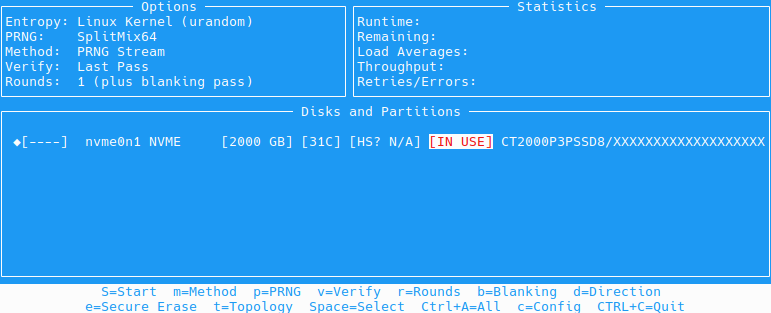
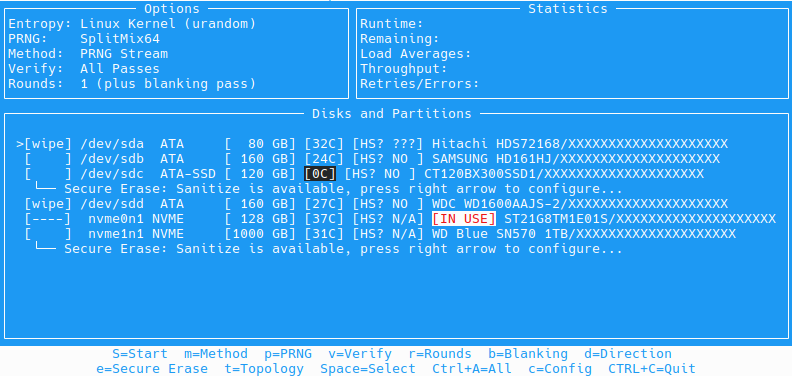
Further updates to drive selection page

Changed region(s): [[0.0, 0.345, 1.0, 1.0], [0.0, 0.0, 1.0, 0.3163]]

diff --git a/drive-selection.md b/drive-selection.md
@@ -19,10 +19,73 @@ Drives currently mounted by the operating system are flagged as <span style="bac
 
 ### 2. Drive Selection Panel Descriptions
 
-The drive selection screen consists of 4 panels and a title bar.
-* **Top Left Panel `Options`** This panel contains the currently selected settings for `entropy` type, `PRNG` type (psuedo random number generator), `Method` type, `Verify` off/last/all, number of `rounds` and whether final `blanking` (writing zeros) is switched on or off. Each of these will be described below. These values are user selectable via the shortcut keys which are displayed on the shortcut keys help bar on the bottom of the screen. These default values can also be set via the command line, e.g `sudo ./nwipe method=is5enh`. For a full list of command line options run `sudo ./nwipe --help`
+The drive selection screen consists of 4 panels and a title bar. These values are user selectable via the shortcut keys which are displayed on the shortcut keys help bar on the bottom of the screen. These default values can also be set via the command line, e.g `sudo ./nwipe method=is5enh`. For a full list of command line options run `sudo ./nwipe --help`
 
-* **Top Right Panel `Statistics`** This panel show information once the disk or disks being wiped have started.
+**Top Left Panel `Options`**
+
+This panel displays the currently active erasure settings (press the corresponding shortcut keys to modify them before starting a wipe):
+
+* **Entropy:** The kernel randomness source used to seed the pseudo-random number generator (typically Linux `urandom` or `random`, or hardware RNG if available).
+* **PRNG:** The Pseudo-Random Number Generator algorithm used to generate random data streams during random overwrite passes (such as Mersenne Twister, ISAAC, XORoshiro-256, SplitMix64, or AES-CTR).
+* **Method:** The sanitization algorithm or hardware erase command applied to selected drives—ranging from software overwrite patterns (Zero Fill, One Fill, PRNG Stream, DoD 5220.22-M, HMG IS5, Gutmann) to hardware-native commands (ATA Secure Erase, NVMe Sanitize, SCSI Sanitize).
+* **Verify:** Controls whether `nwipe` reads back the drive sectors after writing to confirm the pattern was written accurately:
+    * `off`: Skips read-back verification (fastest).
+    * `last`: Verifies only the final pass (recommended balance of speed and assurance).
+    * `all`: Verifies every individual pass in multi-pass methods.
+* **Rounds:** The number of times the selected erasure **Method** is repeated back-to-back on each drive (default is `1`).
+* **Blanking:** Controls whether an additional final pass of all zeros (`0x00`) is written after the main erasure rounds finish (`ON` or `OFF`). Leaving the drive zeroed makes it simple to verify erasure with a hex viewer and prepares the disk cleanly for reuse.
+
+---
+
+**Top Right Panel `Statistics`**
+
+This panel show information once the disk or disks being wiped have started.
+  * **Runtime:** Total elapsed wall-clock time (`HH:MM:SS`) since the erasure session started.
+  * **Remaining:** Estimated time left (`HH:MM:SS`) until all active drives finish their remaining passes and verification rounds, calculated dynamically from current average write/read speeds.
+  * **Load Averages:** Standard Linux system load averages over the past **1**, **5**, and **15** minutes, reflecting overall CPU and I/O wait demand (higher values are normal when wiping multiple drives simultaneously using CPU-intensive PRNG algorithms).
+  * **Throughput:** Combined real-time data transfer rate across all drives currently being wiped or verified (displayed in `MB/s` or `GB/s`).
+  * **Retries/Errors:** Cumulative count of failed I/O operations encountered during the session—retried block writes/reads (typically caused by bad sectors or loose cables) and unrecoverable read/write or verification errors.
+  
+---
+
+***Main Panel `Disks and Partitions`**
+
+Each line in the drive list displays the following fields from left to right:
+
+* **Cursor & Selection Status:**
+    * <span style="background-color: #1589f0; color: #ffffff; font-family: monospace; font-weight: bold; white-space: pre; padding: 1px 5px; border-radius: 2px;">&gt;</span> indicates the currently highlighted row.
+    * <span style="background-color: #1589f0; color: #ffffff; font-family: monospace; font-weight: bold; white-space: pre; padding: 1px 5px; border-radius: 2px;">&gt;[WIPE]</span> marks a drive selected for erasure.
+    * <span style="background-color: #1589f0; color: #ffffff; font-family: monospace; font-weight: bold; white-space: pre; padding: 1px 5px; border-radius: 2px;">&gt;[&nbsp;&nbsp;&nbsp;&nbsp;]</span> indicates an unselected drive that will be left untouched.
+    * <span style="background-color: #1589f0; color: #ffffff; font-family: monospace; font-weight: bold; white-space: pre; padding: 1px 5px; border-radius: 2px;">&gt;[&#45;&#45;&#45;&#45;]</span> indicates a locked/mounted drive that cannot be selected.
+* **Device Node:** The Linux kernel device identifier (such as `/dev/sda`, `/dev/sdb`, or `nvme0n1`).
+* **Bus / Drive Type:** The storage interface and media category detected by `nwipe` (such as `ATA`, `ATA-SSD`, `NVME`, `USB`, or `SAS`).
+* **Capacity:** Total reported drive size in gigabytes (for example, `[  80 GB]` or `[1000 GB]`).
+* **Temperature:** Live drive temperature in degrees Celsius read via SMART/NVMe sensors (such as `[32C]`).
+* **Hidden Sectors <span style="background-color: #1589f0; color: #ffffff; font-family: monospace; font-weight: bold; white-space: pre; padding: 1px 5px; border-radius: 2px;">&gt;[HS? ...]</span>** Indicates whether a Host Protected Area (HPA) or Device Configuration Overlay (DCO) is present:
+    * <span style="background-color: #1589f0; color: #ffffff; font-family: monospace; font-weight: bold; white-space: pre; padding: 1px 5px; border-radius: 2px;">&gt;[HS? NO ]</span> No hidden sectors detected; the full physical capacity is exposed.
+    * <span style="background-color: #1589f0; color: #ffffff; font-family: monospace; font-weight: bold; white-space: pre; padding: 1px 5px; border-radius: 2px;">&gt;[HS? YES]</span> Hidden sectors detected (HPA/DCO active). Reset HPA/DCO using hdparm then restart nwipe.
+    * <span style="background-color: #1589f0; color: #ffffff; font-family: monospace; font-weight: bold; white-space: pre; padding: 1px 5px; border-radius: 2px;">&gt;[HS? ???]</span> Hidden sector status could not be determined (common on older drives or USB bridges).
+    * <span style="background-color: #1589f0; color: #ffffff; font-family: monospace; font-weight: bold; white-space: pre; padding: 1px 5px; border-radius: 2px;">&gt;[HS? N/A]</span> Not applicable to this interface type (such as NVMe).
+* **In-Use Flag (`[IN USE]`):** Highlighted in red when the drive or one of its partitions is currently mounted (such as the booted ShredOS USB stick), preventing accidental erasure.
+* **Model & Serial Number:** The manufacturer model string followed by the drive's unique hardware serial number (`Model/Serial`).
+* **Hardware Sanitize Sub-Line (`└─ Secure Erase: Sanitize is available...`):** Appears directly beneath drives that support native firmware sanitization, letting you press the right arrow key (`→`) to configure hardware-level ATA Secure Erase or NVMe Sanitize.
 
 ### 3. Shortcut Keys
 
+**Bottom Shortcut Bar**
+
+Use the following keyboard shortcuts from the main drive selection screen to configure and launch an erasure session:
+
+* **`S` (Start):** Begins wiping all drives marked with `[wipe]` using the currently selected parameters (capital `S` is required to prevent accidental starts).
+* **`m` (Method):** Opens the wipe method selection menu to choose the erasure algorithm (such as Zero Fill, PRNG Stream, DoD 5220.22-M, or Gutmann).
+* **`p` (PRNG):** Opens the Pseudo-Random Number Generator selection menu to choose the random stream algorithm (such as Mersenne Twister, ISAAC, XORoshiro-256, SplitMix64, or AES-CTR).
+* **`v` (Verify):** Opens the verification mode menu to set post-write read-back verification (`off`, `last`, or `all`).
+* **`r` (Rounds):** Prompts for the number of consecutive times the selected wipe method should be repeated on each drive.
+* **`b` (Blanking):** Toggles the final zero-fill (`0x00`) blanking pass `ON` or `OFF` after the main erasure rounds finish.
+* **`d` (Direction):** Toggles the wipe direction between **Forward** (start of disk to end) and **Reverse** (end of disk to start).
+* **`e` (Secure Erase):** Opens the hardware-native sanitization menu (ATA Secure Erase / Enhanced Secure Erase or NVMe Sanitize) for the highlighted drive, if supported.
+* **`t` (Topology):** Toggles the drive list view between flat device listing and physical bus/controller topology grouping.
+* **`Space` (Select):** Toggles the wipe selection state (`[wipe]` or `[    ]`) for the currently highlighted drive.
+* **`Ctrl+A` (All):** Selects all available (unlocked) drives in the list for erasure at once.
+* **`c` (Config):** Opens the `nwipe` configuration menu to adjust PDF report settings, customer/organization details, and hardware options.
+* **`CTRL+C` (Quit):** Aborts any active wipe (if running) and exits `nwipe` back to the ShredOS console.
